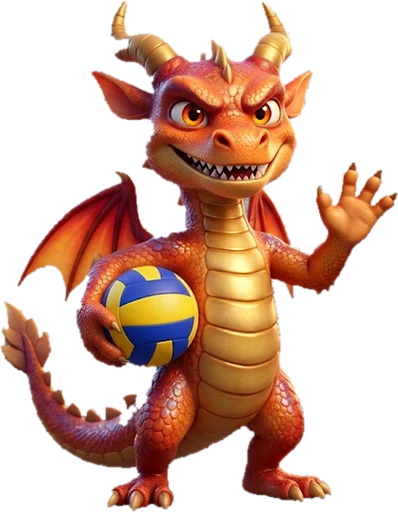
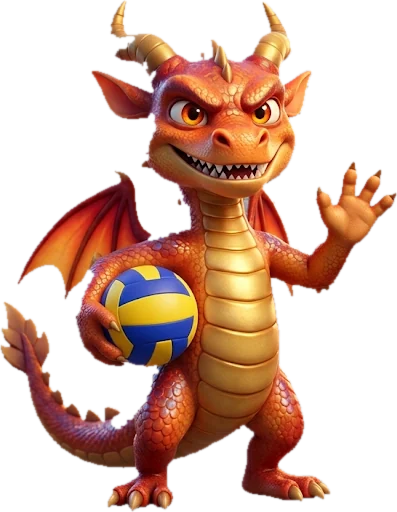
style(tutorial): Brasa remata con el balón nuevo en llamas
Imagen del remate (alas abiertas, balón amarillo y azul en llamas) sin el
cuadriculado pintado, y se limpian también los bordes de las otras dos poses.
En la burbuja, el remate ocupa más ancho porque es horizontal.

diff --git a/frontend/src/app/compartido/dragon.ts b/frontend/src/app/compartido/dragon.ts
@@ -2,14 +2,11 @@ import { ChangeDetectionStrategy, Component, computed, input } from '@angular/co
 
 import type { Pose } from '../core/tutorial.service';
 
-/**
- * Imagen de cada pose (WebP con transparencia, ~50 KB, servida por el propio panel: la CSP no deja cargar imágenes
- * de afuera). Mientras no esté la del remate con el balón nuevo, esa pose usa la del saludo.
- */
+/** Imagen de cada pose (WebP con transparencia, ~50 KB, servida por el propio panel: la CSP no deja cargar de afuera). */
 const IMAGEN: Record<Pose, { src: string; ancho: number; alto: number }> = {
-  saluda: { src: 'brasa/saluda.webp', ancho: 398, alto: 512 },
-  senala: { src: 'brasa/senala.webp', ancho: 420, alto: 512 },
-  remata: { src: 'brasa/saluda.webp', ancho: 398, alto: 512 },
+  saluda: { src: 'brasa/saluda.webp', ancho: 397, alto: 512 },
+  senala: { src: 'brasa/senala.webp', ancho: 415, alto: 512 },
+  remata: { src: 'brasa/remata.webp', ancho: 512, alto: 366 },
 };
 
 /**

diff --git a/frontend/src/app/layout/tutorial/tutorial.scss b/frontend/src/app/layout/tutorial/tutorial.scss
@@ -53,6 +53,12 @@
     margin-top: -48px;
     width: 92px;
     height: 118px;
+
+    // El remate es horizontal (alas abiertas): más ancho.
+    &[data-pose='remata'] {
+      width: 132px;
+      margin-top: -40px;
+    }
   }
 }
 
